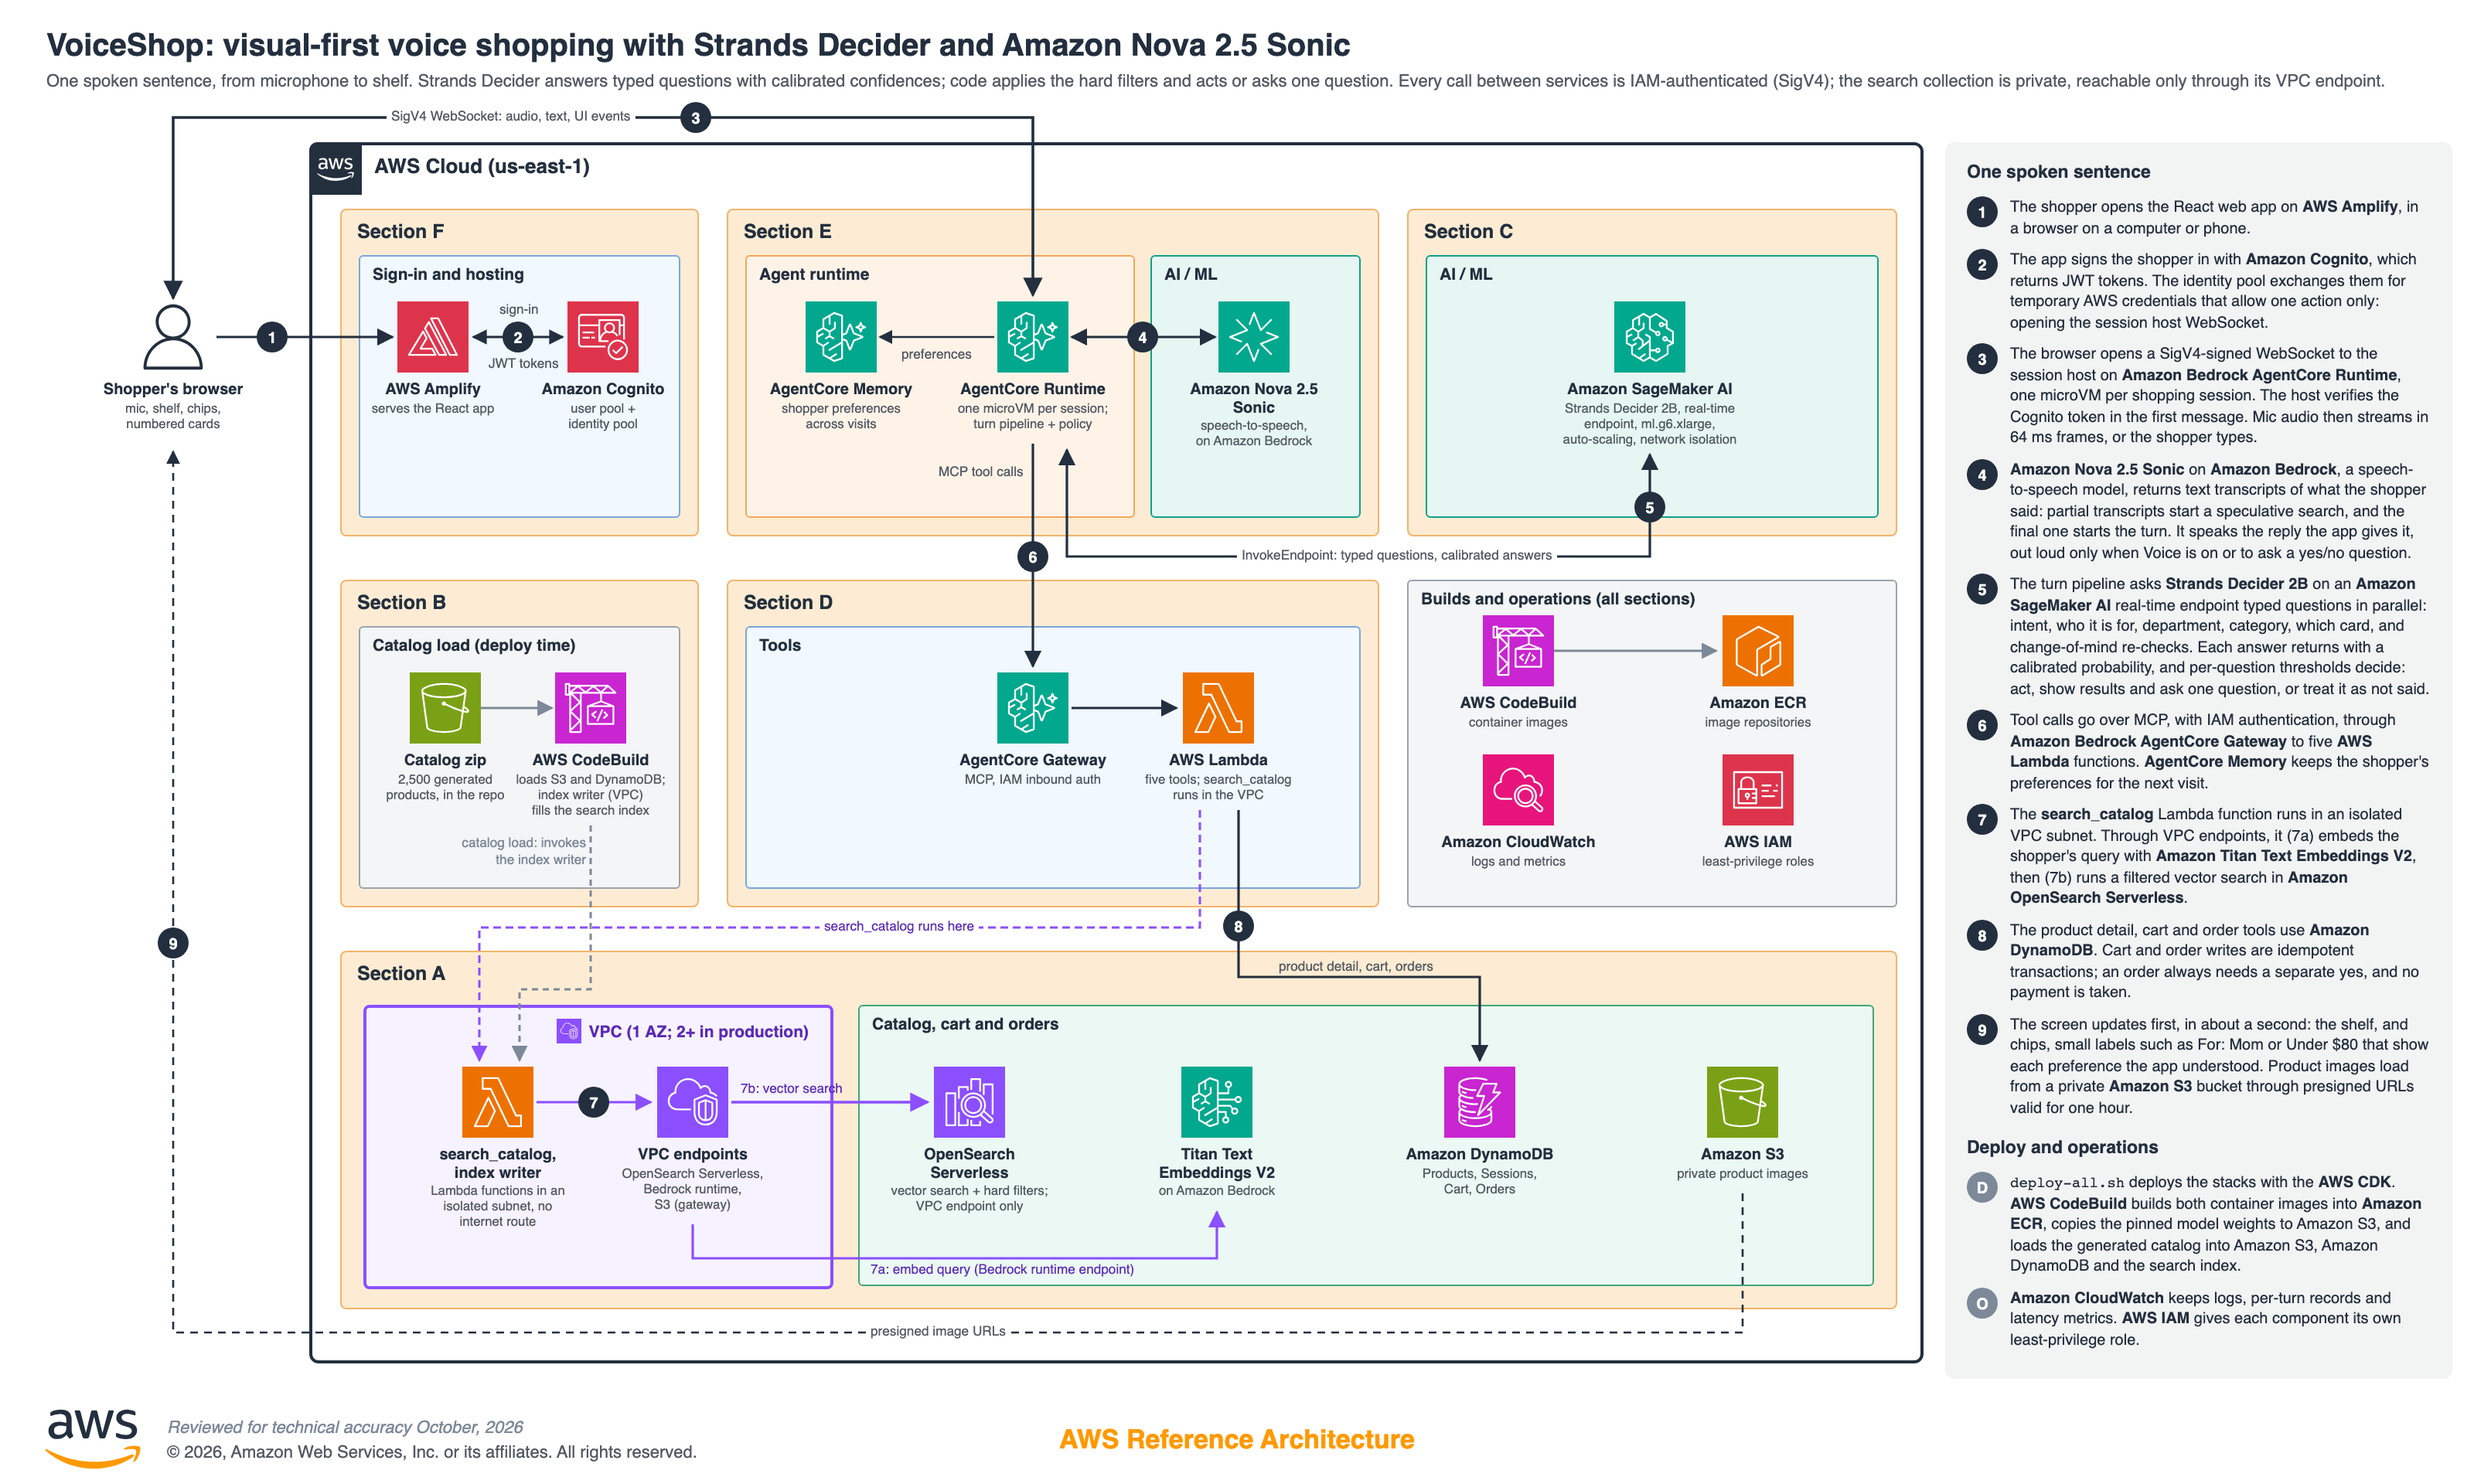
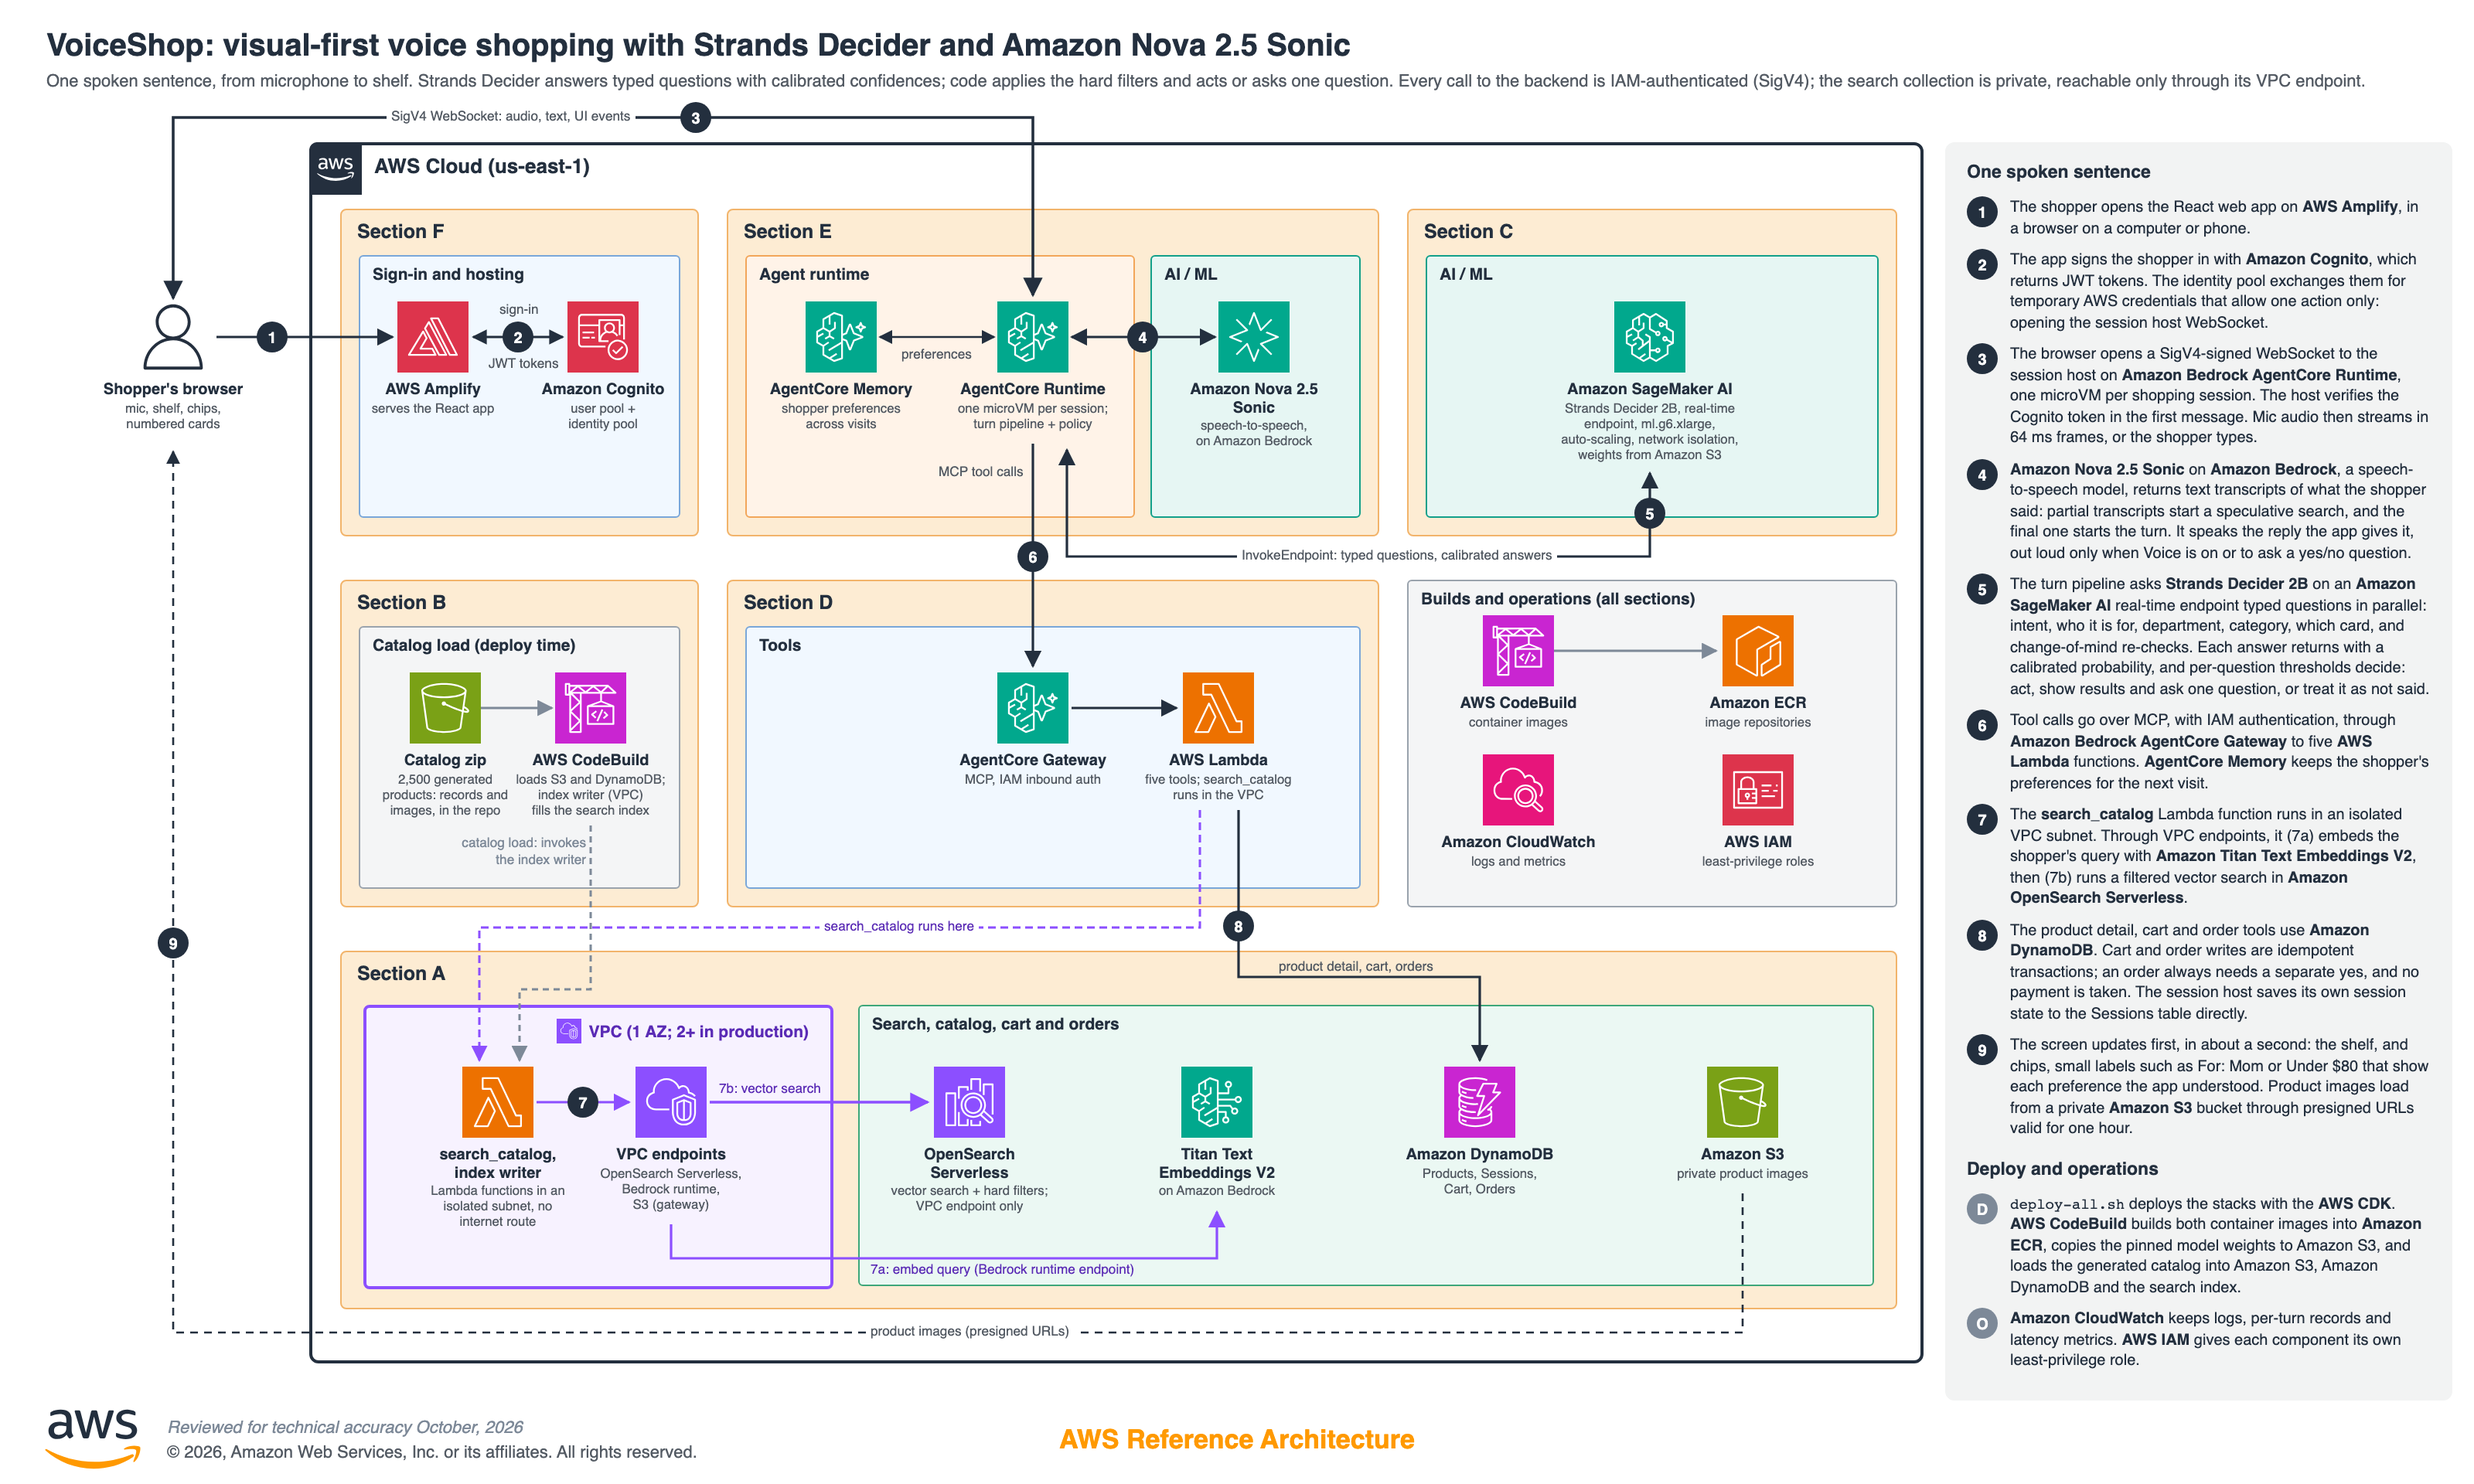
Architecture diagram: final review fixes (Sessions note, two-way Memory, subtitle, labels and captions)

diff --git a/assets/architecture-diagram-source.html b/assets/architecture-diagram-source.html
@@ -55,7 +55,7 @@
 <div class="canvas">
 
   <div class="title">VoiceShop: visual-first voice shopping with Strands Decider and Amazon Nova 2.5 Sonic</div>
-  <div class="subtitle">One spoken sentence, from microphone to shelf. Strands Decider answers typed questions with calibrated confidences; code applies the hard filters and acts or asks one question. Every call between services is IAM-authenticated (SigV4); the search collection is private, reachable only through its VPC endpoint.</div>
+  <div class="subtitle">One spoken sentence, from microphone to shelf. Strands Decider answers typed questions with calibrated confidences; code applies the hard filters and acts or asks one question. Every call to the backend is IAM-authenticated (SigV4); the search collection is private, reachable only through its VPC endpoint.</div>
 
   <!-- AWS Cloud: the AWS group icon in the top-left corner -->
   <div class="boundary" style="left:200px;top:92px;width:1040px;height:786px;"></div>
@@ -80,12 +80,12 @@
 
   <div class="section" style="left:910px;top:135px;width:315px;height:210px;"><div class="section-label">Section C</div></div>
   <div class="sub" style="left:922px;top:165px;width:291px;height:168px;background:#E6F6F3;border-color:#12A08A;"><div class="sub-label">AI / ML</div></div>
-  <div class="svc" style="left:967px;top:195px;width:200px;"><img src="icons/sagemaker.svg"/><div class="n">Amazon SageMaker AI</div><div class="d">Strands Decider 2B, real-time<br/>endpoint, ml.g6.xlarge,<br/>auto-scaling, network isolation</div></div>
+  <div class="svc" style="left:967px;top:195px;width:200px;"><img src="icons/sagemaker.svg"/><div class="n">Amazon SageMaker AI</div><div class="d">Strands Decider 2B, real-time<br/>endpoint, ml.g6.xlarge,<br/>auto-scaling, network isolation,<br/>weights from Amazon S3</div></div>
 
   <!-- Row 2: B catalog, D tools, builds and operations -->
   <div class="section" style="left:220px;top:375px;width:230px;height:210px;"><div class="section-label">Section B</div></div>
   <div class="sub" style="left:232px;top:405px;width:206px;height:168px;background:#F4F5F6;border-color:#9AA3AD;"><div class="sub-label">Catalog load (deploy time)</div></div>
-  <div class="svc" style="left:236px;top:435px;"><img src="icons/s3.svg"/><div class="n">Catalog zip</div><div class="d">2,500 generated<br/>products, in the repo</div></div>
+  <div class="svc" style="left:236px;top:435px;"><img src="icons/s3.svg"/><div class="n">Catalog zip</div><div class="d">2,500 generated<br/>products: records and<br/>images, in the repo</div></div>
   <div class="svc" style="left:330px;top:435px;"><img src="icons/codebuild.svg"/><div class="n">AWS CodeBuild</div><div class="d">loads S3 and DynamoDB;<br/>index writer (VPC)<br/>fills the search index</div></div>
 
   <div class="section" style="left:470px;top:375px;width:420px;height:210px;"><div class="section-label">Section D</div></div>
@@ -105,8 +105,8 @@
     <div class="vpc-label" style="right:8px;top:7px;background:transparent;"><img src="icons/vpc.svg"/>VPC (1 AZ; 2+ in production)</div>
   </div>
   <div class="svc" style="left:264px;top:690px;width:116px;"><img src="icons/lambda.svg"/><div class="n">search_catalog,<br/>index writer</div><div class="d">Lambda functions in an<br/>isolated subnet, no<br/>internet route</div></div>
-  <div class="svc" style="left:390px;top:690px;width:116px;"><img src="icons/vpc.svg"/><div class="n">VPC endpoints</div><div class="d">OpenSearch Serverless,<br/>Bedrock runtime,<br/>S3 (gateway)</div></div>
-  <div class="sub" style="left:555px;top:650px;width:655px;height:180px;background:#EBF8F3;border-color:#3FA77A;"><div class="sub-label">Catalog, cart and orders</div></div>
+  <div class="svc" style="left:376px;top:690px;width:116px;"><img src="icons/vpc.svg"/><div class="n">VPC endpoints</div><div class="d">OpenSearch Serverless,<br/>Bedrock runtime,<br/>S3 (gateway)</div></div>
+  <div class="sub" style="left:555px;top:650px;width:655px;height:180px;background:#EBF8F3;border-color:#3FA77A;"><div class="sub-label">Search, catalog, cart and orders</div></div>
   <div class="svc" style="left:575px;top:690px;"><img src="icons/opensearch.svg"/><div class="n">OpenSearch Serverless</div><div class="d">vector search + hard filters;<br/>VPC endpoint only</div></div>
   <div class="svc" style="left:735px;top:690px;"><img src="icons/bedrock.svg"/><div class="n">Titan Text Embeddings V2</div><div class="d">on Amazon Bedrock</div></div>
   <div class="svc" style="left:905px;top:690px;"><img src="icons/dynamodb.svg"/><div class="n">Amazon DynamoDB</div><div class="d">Products, Sessions,<br/>Cart, Orders</div></div>
@@ -122,15 +122,15 @@
     <path d="M140 218 H254" stroke="#232F3E" stroke-width="1.6" fill="none" marker-end="url(#arr)"/>
     <path d="M112 193 V76 H668 V191" stroke="#232F3E" stroke-width="1.8" fill="none" marker-start="url(#arr)" marker-end="url(#arr)"/>
     <path d="M693 218 H786" stroke="#232F3E" stroke-width="1.6" fill="none" marker-start="url(#arr)" marker-end="url(#arr)"/>
-    <path d="M643 218 H569" stroke="#232F3E" stroke-width="1.3" fill="none" marker-end="url(#arr)"/>
-    <path d="M690 291 V360 H1067 V294" stroke="#232F3E" stroke-width="1.6" fill="none" marker-start="url(#arr)" marker-end="url(#arr)"/>
+    <path d="M643 218 H569" stroke="#232F3E" stroke-width="1.3" fill="none" marker-start="url(#arr)" marker-end="url(#arr)"/>
+    <path d="M690 291 V360 H1067 V306" stroke="#232F3E" stroke-width="1.6" fill="none" marker-start="url(#arr)" marker-end="url(#arr)"/>
     <path d="M668 287 V431" stroke="#232F3E" stroke-width="1.6" fill="none" marker-end="url(#arr)"/>
     <path d="M693 458 H761" stroke="#232F3E" stroke-width="1.6" fill="none" marker-end="url(#arr)"/>
     <path d="M801 524 V632 H957 V686" stroke="#232F3E" stroke-width="1.6" fill="none" marker-end="url(#arr)"/>
     <path d="M776 524 V600 H310 V686" stroke="#8C4FFF" stroke-width="1.5" stroke-dasharray="5,3" fill="none" marker-end="url(#arrv)"/>
-    <path d="M347 713 H421" stroke="#8C4FFF" stroke-width="1.6" fill="none" marker-end="url(#arrv)"/>
-    <path d="M473 713 H600" stroke="#8C4FFF" stroke-width="1.8" fill="none" marker-end="url(#arrv)"/>
-    <path d="M448 792 V814 H787 V784" stroke="#8C4FFF" stroke-width="1.6" fill="none" marker-end="url(#arrv)"/>
+    <path d="M347 713 H407" stroke="#8C4FFF" stroke-width="1.6" fill="none" marker-end="url(#arrv)"/>
+    <path d="M459 713 H600" stroke="#8C4FFF" stroke-width="1.8" fill="none" marker-end="url(#arrv)"/>
+    <path d="M434 792 V814 H787 V784" stroke="#8C4FFF" stroke-width="1.6" fill="none" marker-end="url(#arrv)"/>
     <path d="M1127 772 V862 H112 V292" stroke="#232F3E" stroke-width="1.3" stroke-dasharray="5,4" fill="none" marker-end="url(#arr)"/>
     <path d="M306 218 H364" stroke="#232F3E" stroke-width="1.4" fill="none" marker-start="url(#arr)" marker-end="url(#arr)"/>
     <path d="M311 458 H357" stroke="#7D8998" stroke-width="1.5" fill="none" marker-end="url(#arrg)"/>
@@ -145,10 +145,10 @@
   <div class="tag clear" style="left:320px;top:195px;">sign-in</div>
   <div class="tag clear" style="left:313px;top:230px;">JWT tokens</div>
   <div class="tag clear" style="left:824px;top:620px;">product detail, cart, orders</div>
-  <div class="tag" style="left:560px;top:856px;">presigned image URLs</div>
+  <div class="tag" style="left:560px;top:856px;">product images (presigned URLs)</div>
   <div class="tag clear" style="left:560px;top:816px;color:#5A2BB5;">7a: embed query (Bedrock runtime endpoint)</div>
   <div class="tag" style="left:530px;top:594px;color:#5A2BB5;">search_catalog runs here</div>
-  <div class="tag clear" style="left:476px;top:699px;color:#5A2BB5;">7b: vector search</div>
+  <div class="tag clear" style="left:462px;top:699px;color:#5A2BB5;">7b: vector search</div>
   <div class="tag clear" style="left:246px;top:540px;width:130px;text-align:right;line-height:1.3;color:#7D8998;">catalog load: invokes<br/>the index writer</div>
 
 
@@ -156,9 +156,9 @@
   <div class="step" style="left:325px;top:208px;">2</div>
   <div class="step" style="left:440px;top:66px;">3</div>
   <div class="step" style="left:729px;top:208px;">4</div>
-  <div class="step" style="left:1057px;top:318px;">5</div>
+  <div class="step" style="left:1057px;top:322px;">5</div>
   <div class="step" style="left:658px;top:350px;">6</div>
-  <div class="step" style="left:374px;top:703px;">7</div>
+  <div class="step" style="left:367px;top:703px;">7</div>
   <div class="step" style="left:791px;top:589px;">8</div>
   <div class="step" style="left:102px;top:600px;">9</div>
 
@@ -171,7 +171,7 @@
     <div class="row"><div class="b">5</div><div class="x">The turn pipeline asks <b>Strands Decider 2B</b> on an <b>Amazon SageMaker AI</b> real-time endpoint typed questions in parallel: intent, who it is for, department, category, which card, and change-of-mind re-checks. Each answer returns with a calibrated probability, and per-question thresholds decide: act, show results and ask one question, or treat it as not said.</div></div>
     <div class="row"><div class="b">6</div><div class="x">Tool calls go over MCP, with IAM authentication, through <b>Amazon Bedrock AgentCore Gateway</b> to five <b>AWS Lambda</b> functions. <b>AgentCore Memory</b> keeps the shopper&#39;s preferences for the next visit.</div></div>
     <div class="row"><div class="b">7</div><div class="x">The <b>search_catalog</b> Lambda function runs in an isolated VPC subnet. Through VPC endpoints, it (7a) embeds the shopper&#39;s query with <b>Amazon Titan Text Embeddings V2</b>, then (7b) runs a filtered vector search in <b>Amazon OpenSearch Serverless</b>.</div></div>
-    <div class="row"><div class="b">8</div><div class="x">The product detail, cart and order tools use <b>Amazon DynamoDB</b>. Cart and order writes are idempotent transactions; an order always needs a separate yes, and no payment is taken.</div></div>
+    <div class="row"><div class="b">8</div><div class="x">The product detail, cart and order tools use <b>Amazon DynamoDB</b>. Cart and order writes are idempotent transactions; an order always needs a separate yes, and no payment is taken. The session host saves its own session state to the Sessions table directly.</div></div>
     <div class="row"><div class="b">9</div><div class="x">The screen updates first, in about a second: the shelf, and chips, small labels such as For: Mom or Under $80 that show each preference the app understood. Product images load from a private <b>Amazon S3</b> bucket through presigned URLs valid for one hour.</div></div>
     <h3 style="margin-top:12px;">Deploy and operations</h3>
     <div class="row"><div class="b dep">D</div><div class="x"><code>deploy-all.sh</code> deploys the stacks with the <b>AWS CDK</b>. <b>AWS CodeBuild</b> builds both container images into <b>Amazon ECR</b>, copies the pinned model weights to Amazon S3, and loads the generated catalog into Amazon S3, Amazon DynamoDB and the search index.</div></div>
